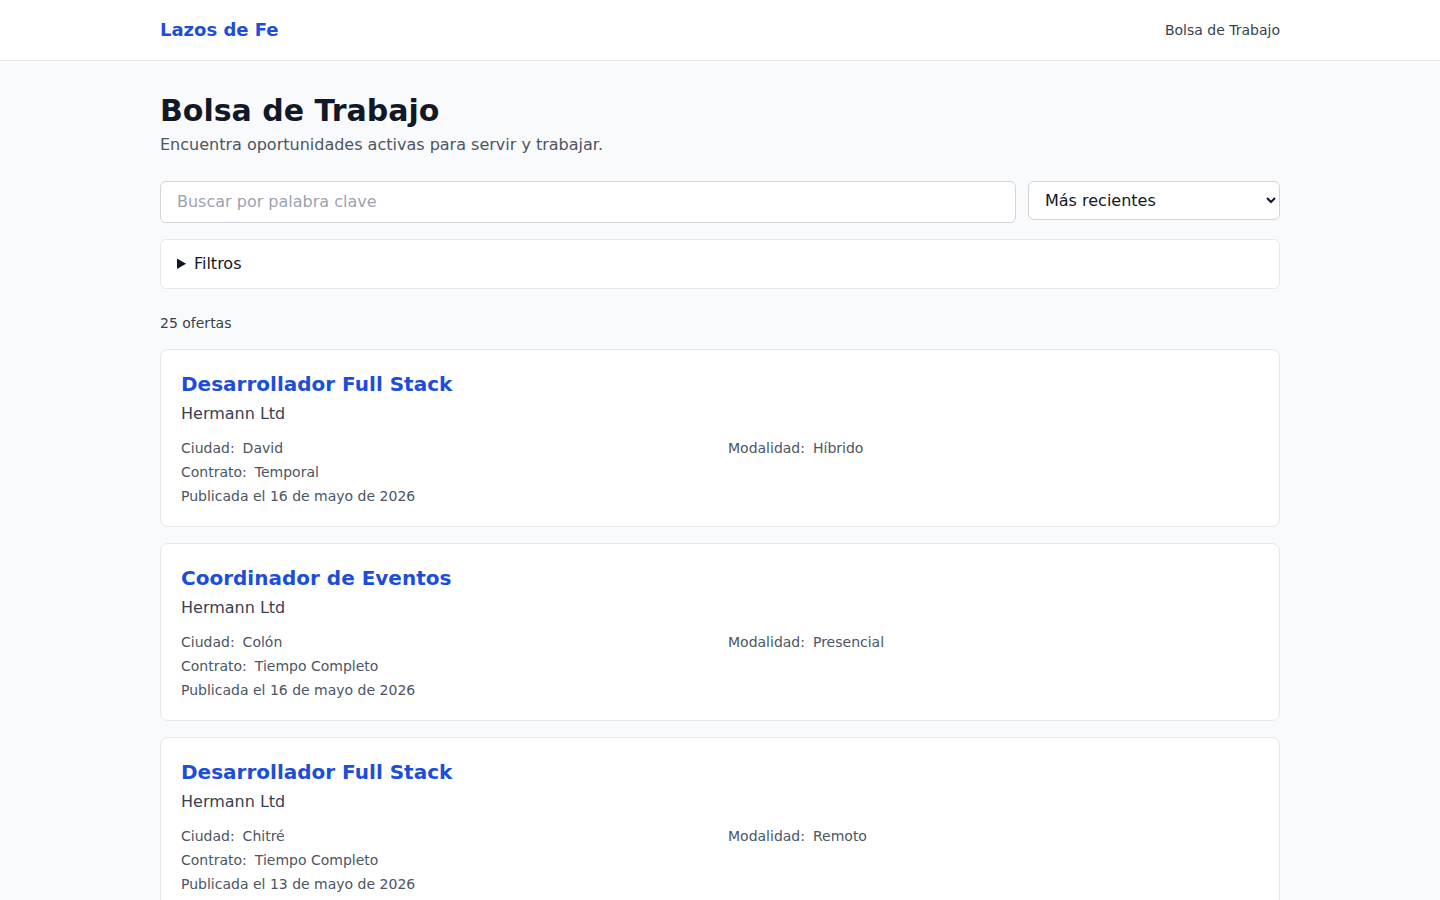
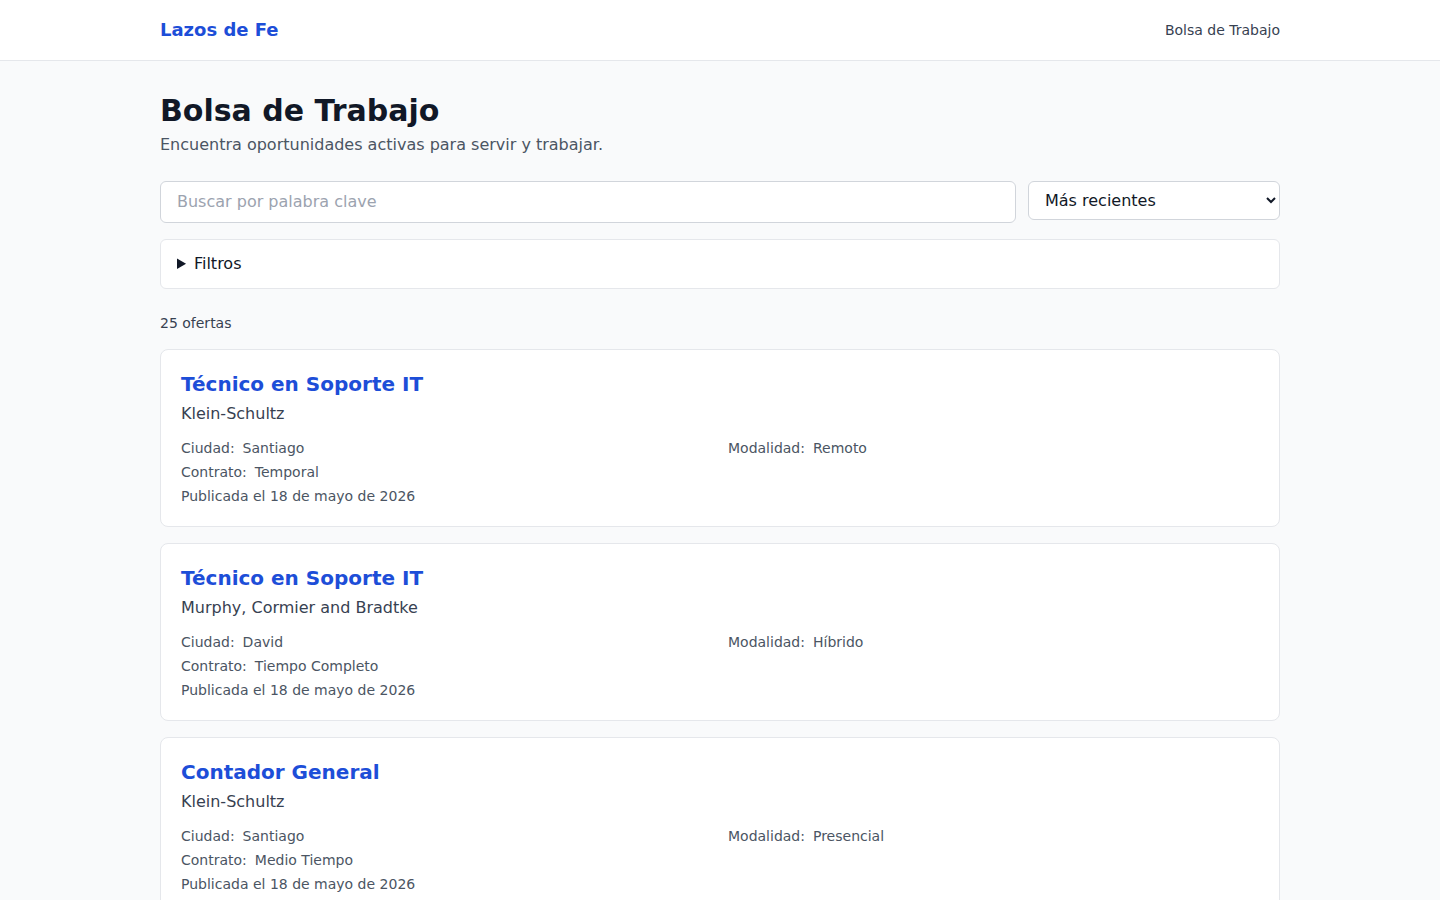
Refactor code structure for improved readability and maintainability

diff --git a/resources/views/filament/member/pages/welcome.blade.php b/resources/views/filament/member/pages/welcome.blade.php
@@ -1,4 +1,129 @@
 <x-filament-panels::page.simple>
-  {!!  $this->getText() ?? "" !!}
+    <div class="flex flex-col gap-y-6">
+        @if($this->getText())
+            <div class="prose max-w-none text-center dark:prose-invert text-gray-600 dark:text-gray-400">
+                {!! $this->getText() !!}
+            </div>
+        @endif
 
+        @if(auth('member')->check())
+            @php
+                $member = auth('member')->user();
+            @endphp
+
+            @if(! $member->hasVerifiedEmail())
+                <!-- Tarjeta de Confirmación de Correo Pendiente -->
+                <div class="rounded-xl border border-amber-200 bg-amber-50/50 p-6 dark:border-amber-800/30 dark:bg-amber-950/10">
+                    <div class="flex items-start gap-4">
+                        <div class="rounded-lg bg-amber-100 p-2 text-amber-600 dark:bg-amber-900/20 dark:text-amber-400">
+                            <!-- Heroicon-o-envelope -->
+                            <svg class="h-6 w-6" fill="none" viewBox="0 0 24 24" stroke-width="1.5" stroke="currentColor">
+                                <path stroke-linecap="round" stroke-linejoin="round" d="M21.75 6.75v10.5a2.25 2.25 0 0 1-2.25 2.25h-15a2.25 2.25 0 0 1-2.25-2.25V6.75m19.5 0A2.25 2.25 0 0 0 19.5 4.5h-15a2.25 2.25 0 0 0-2.25 2.25m19.5 0v.243a2.25 2.25 0 0 1-1.07 1.916l-7.5 4.615a2.25 2.25 0 0 1-2.36 0L3.32 8.91a2.25 2.25 0 0 1-1.07-1.916V6.75" />
+                            </svg>
+                        </div>
+                        <div class="flex-1 space-y-2 text-left">
+                            <h3 class="text-lg font-semibold text-amber-900 dark:text-amber-200">
+                                {{ __('Confirma tu correo electrónico') }}
+                            </h3>
+                            <p class="text-sm text-amber-700 dark:text-amber-300">
+                                {{ __('Para continuar y acceder al portal, debes verificar tu cuenta. Hemos enviado un correo de confirmación a:') }}
+                            </p>
+                            <div class="inline-block px-3 py-1 bg-white dark:bg-gray-800 border border-amber-200 dark:border-gray-700 rounded-md font-mono text-sm font-semibold text-gray-850 dark:text-gray-200 select-all shadow-sm">
+                                {{ $member->email }}
+                            </div>
+                            <div class="text-xs text-amber-600 dark:text-amber-400 pt-2 space-y-1">
+                                <p>• {{ __('¿No lo encuentras? Revisa tu carpeta de correo no deseado (Spam).') }}</p>
+                                <p>• {{ __('El enlace expira en 60 minutos.') }}</p>
+                            </div>
+                        </div>
+                    </div>
+
+                    <div class="mt-6 flex flex-col sm:flex-row gap-3 justify-end border-t border-amber-200/50 dark:border-amber-800/20 pt-4">
+                        <x-filament::button
+                            wire:click="resendVerification"
+                            wire:loading.attr="disabled"
+                            color="warning"
+                            icon="heroicon-m-arrow-path"
+                            tag="button"
+                            size="sm"
+                        >
+                            <span wire:loading.remove wire:target="resendVerification">
+                                {{ __('Reenviar correo') }}
+                            </span>
+                            <span wire:loading wire:target="resendVerification">
+                                {{ __('Reenviando...') }}
+                            </span>
+                        </x-filament::button>
+
+                        <x-filament::button
+                            href="/member"
+                            color="primary"
+                            icon="heroicon-m-arrow-right"
+                            tag="a"
+                            size="sm"
+                        >
+                            {{ __('Ir al Panel') }}
+                        </x-filament::button>
+                    </div>
+                </div>
+            @else
+                <!-- Tarjeta de Cuenta Verificada -->
+                <div class="rounded-xl border border-emerald-200 bg-emerald-50/50 p-6 dark:border-emerald-800/30 dark:bg-emerald-950/10">
+                    <div class="flex items-start gap-4">
+                        <div class="rounded-lg bg-emerald-100 p-2 text-emerald-600 dark:bg-emerald-900/20 dark:text-emerald-400">
+                            <!-- Heroicon-o-check-circle -->
+                            <svg class="h-6 w-6" fill="none" viewBox="0 0 24 24" stroke-width="1.5" stroke="currentColor">
+                                <path stroke-linecap="round" stroke-linejoin="round" d="M9 12.75 11.25 15 15 9.75M21 12a9 9 0 1 1-18 0 9 9 0 0 1 18 0Z" />
+                            </svg>
+                        </div>
+                        <div class="flex-1 space-y-1 text-left">
+                            <h3 class="text-lg font-semibold text-emerald-900 dark:text-emerald-200">
+                                {{ __('¡Cuenta verificada!') }}
+                            </h3>
+                            <p class="text-sm text-emerald-700 dark:text-emerald-300">
+                                {{ __('Tu dirección de correo ya ha sido confirmada con éxito. Ya puedes acceder al portal completo.') }}
+                            </p>
+                        </div>
+                    </div>
+
+                    <div class="mt-6 flex justify-end border-t border-emerald-200/50 dark:border-emerald-800/20 pt-4">
+                        <x-filament::button
+                            href="/member"
+                            color="success"
+                            icon="heroicon-m-arrow-right"
+                            tag="a"
+                            size="sm"
+                        >
+                            {{ __('Entrar al Panel') }}
+                        </x-filament::button>
+                    </div>
+                </div>
+            @endif
+
+            <!-- Enlace de Cierre de Sesión -->
+            <div class="flex justify-center mt-2">
+                <button
+                    wire:click="logout"
+                    class="text-xs text-gray-500 hover:text-red-600 dark:text-gray-400 dark:hover:text-red-400 flex items-center gap-1.5 transition duration-150 ease-in-out font-medium"
+                >
+                    <!-- Heroicon-o-arrow-left-on-rectangle -->
+                    <svg class="h-4 w-4" fill="none" viewBox="0 0 24 24" stroke-width="1.5" stroke="currentColor">
+                        <path stroke-linecap="round" stroke-linejoin="round" d="M15.75 9V5.25A2.25 2.25 0 0 0 13.5 3h-6a2.25 2.25 0 0 0-2.25 2.25v13.5A2.25 2.25 0 0 0 7.5 21h6a2.25 2.25 0 0 0 2.25-2.25V15M12 9l-3 3m0 0 3 3m-3-3h12.75" />
+                    </svg>
+                    {{ __('Cerrar sesión o registrarse con otra cuenta') }}
+                </button>
+            </div>
+        @else
+            <!-- Fallback para no autenticados -->
+            <div class="mt-6 flex justify-center gap-4">
+                <x-filament::button
+                    :href="route('filament.member.auth.login')"
+                    tag="a"
+                >
+                    {{ __('Iniciar sesión') }}
+                </x-filament::button>
+            </div>
+        @endif
+    </div>
 </x-filament-panels::page.simple>
+

diff --git a/app/Http/Middleware/RedirectIfMemberLoggedIn.php b/app/Http/Middleware/RedirectIfMemberLoggedIn.php
@@ -1,0 +1,40 @@
+<?php
+
+declare(strict_types=1);
+
+namespace App\Http\Middleware;
+
+use Closure;
+use Illuminate\Http\Request;
+use Symfony\Component\HttpFoundation\Response;
+use Illuminate\Pipeline\Pipeline;
+
+class RedirectIfMemberLoggedIn
+{
+    /**
+     * Handle an incoming request.
+     *
+     * @param  \Closure(\Illuminate\Http\Request): (\Symfony\Component\HttpFoundation\Response)  $next
+     */
+    public function handle(Request $request, Closure $next): Response
+    {
+        $cookieName = config('session.cookie');
+
+        if ($request->hasCookie($cookieName)) {
+            return (new Pipeline(app()))
+                ->send($request)
+                ->through([
+                    \App\Http\Middleware\EncryptCookies::class,
+                    \Illuminate\Session\Middleware\StartSession::class,
+                ])
+                ->then(function ($request) use ($next) {
+                    if (auth('member')->check()) {
+                        return redirect('/member');
+                    }
+                    return $next($request);
+                });
+        }
+
+        return $next($request);
+    }
+}

diff --git a/app/Filament/Member/Pages/Welcome.php b/app/Filament/Member/Pages/Welcome.php
@@ -3,6 +3,7 @@
 namespace App\Filament\Member\Pages;
 
 use App\Models\Text;
+use Filament\Notifications\Notification;
 use Filament\Pages\SimplePage;
 
 class Welcome extends SimplePage
@@ -41,4 +42,29 @@ class Welcome extends SimplePage
 
         return $record->content;
     }
+
+    public function resendVerification(): void
+    {
+        $user = auth('member')->user();
+
+        if ($user && ! $user->hasVerifiedEmail()) {
+            $user->sendEmailVerificationNotification();
+
+            Notification::make()
+                ->title('Enlace enviado')
+                ->body('Hemos enviado un nuevo enlace de verificación a ' . $user->email)
+                ->success()
+                ->send();
+        }
+    }
+
+    public function logout(): void
+    {
+        auth('member')->logout();
+        session()->invalidate();
+        session()->regenerateToken();
+
+        redirect()->to(route('filament.member.auth.login'));
+    }
 }
+

diff --git a/tests/Feature/Public/BrowseJobBoardTest.php b/tests/Feature/Public/BrowseJobBoardTest.php
@@ -176,4 +176,17 @@ class BrowseJobBoardTest extends TestCase
         $response->assertSee('rel="canonical"', escape: false);
         $response->assertSee('href="'.url('/bolsa-de-trabajo').'"', escape: false);
     }
+
+    public function test_logged_in_member_is_redirected_to_dashboard(): void
+    {
+        $member = \App\Models\Member::factory()->create();
+        $cookieName = config('session.cookie');
+
+        // We act as the member and supply the session cookie to trigger the middleware check
+        $response = $this->actingAs($member, 'member')
+            ->withCookie($cookieName, 'dummy-session-id')
+            ->get('/bolsa-de-trabajo');
+
+        $response->assertRedirect('/member');
+    }
 }

diff --git a/tests/Feature/Public/CtaTest.php b/tests/Feature/Public/CtaTest.php
@@ -114,4 +114,17 @@ class CtaTest extends TestCase
         $response->assertDontSee(__('public.cta.member_no_profile.complete_profile'));
         $response->assertDontSee(__('public.cta.member_candidate.button'));
     }
+
+    public function test_member_can_visit_apply_page(): void
+    {
+        $offer = $this->makeActiveOffer();
+        $member = Member::factory()->create([
+            'email_verified_at' => now(),
+        ]);
+        CandidateProfile::factory()->create(['member_id' => $member->id]);
+
+        $response = $this->actingAs($member->fresh(), 'member')->get('/member/apply/'.$offer->slug);
+
+        $response->assertOk();
+    }
 }

diff --git a/app/Filament/Member/Pages/ApplyToJobListing.php b/app/Filament/Member/Pages/ApplyToJobListing.php
@@ -23,17 +23,17 @@ class ApplyToJobListing extends Page implements HasForms
 
     protected static string $view = 'filament.member.pages.apply-to-job-listing';
 
-    protected static ?string $slug = 'apply/{record}';
+    protected static ?string $slug = 'apply/{offer}';
 
     public ?array $data = [];
 
     public ?JobListing $record = null;
 
-    public function mount(string $record): void
+    public function mount(string $offer): void
     {
         $this->record = JobListing::query()
-            ->where('slug', $record)
-            ->orWhere('id', $record)
+            ->where('slug', $offer)
+            ->orWhere('id', $offer)
             ->firstOrFail();
 
         $this->data = [

diff --git a/routes/public.php b/routes/public.php
@@ -24,7 +24,10 @@ use Illuminate\Support\Facades\Route;
 
 Route::name('public.')->group(function () {
     Route::get('/bolsa-de-trabajo', JobBoardController::class)
-        ->middleware(ThrottleOnQuery::class)
+        ->middleware([
+            ThrottleOnQuery::class,
+            \App\Http\Middleware\RedirectIfMemberLoggedIn::class,
+        ])
         ->name('job-board.index');
 
     // Detail route /bolsa-de-trabajo/{slug} lives in routes/web.php — it

diff --git a/app/Providers/Filament/MemberPanelProvider.php b/app/Providers/Filament/MemberPanelProvider.php
@@ -137,9 +137,6 @@ class MemberPanelProvider extends PanelProvider
                         ->icon('heroicon-o-home')
                         ->url('/')
                         ->openUrlInNewTab(),
-                    NavigationItem::make(__('Bolsa de Trabajo'))
-                        ->icon('heroicon-o-briefcase')
-                        ->url('/bolsa-de-trabajo'),
                 ];
                 if (auth()->guard('member')->user()) {
                     $hasOrganization = Organization::where('member_id', auth('member')->id())->exists();